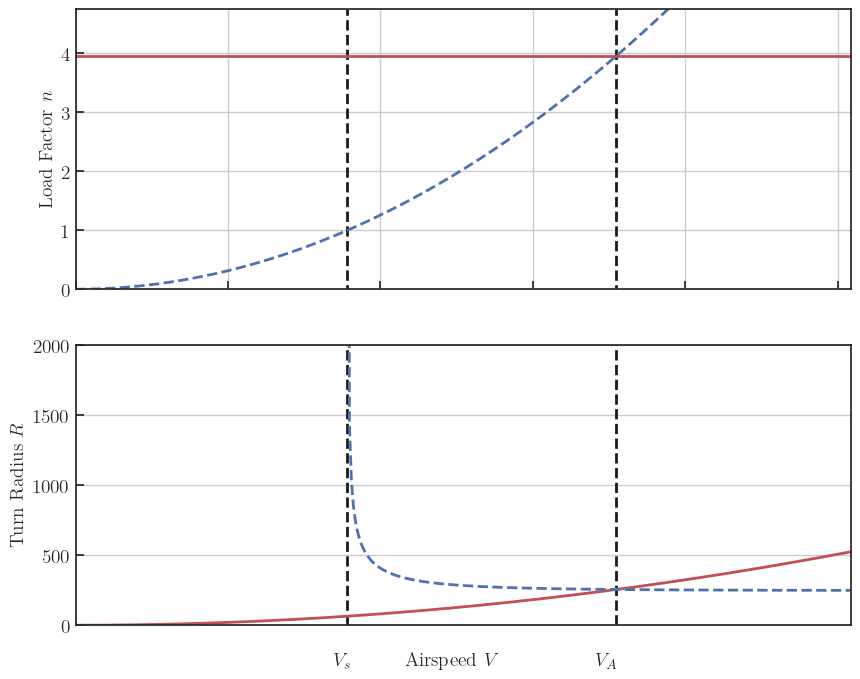
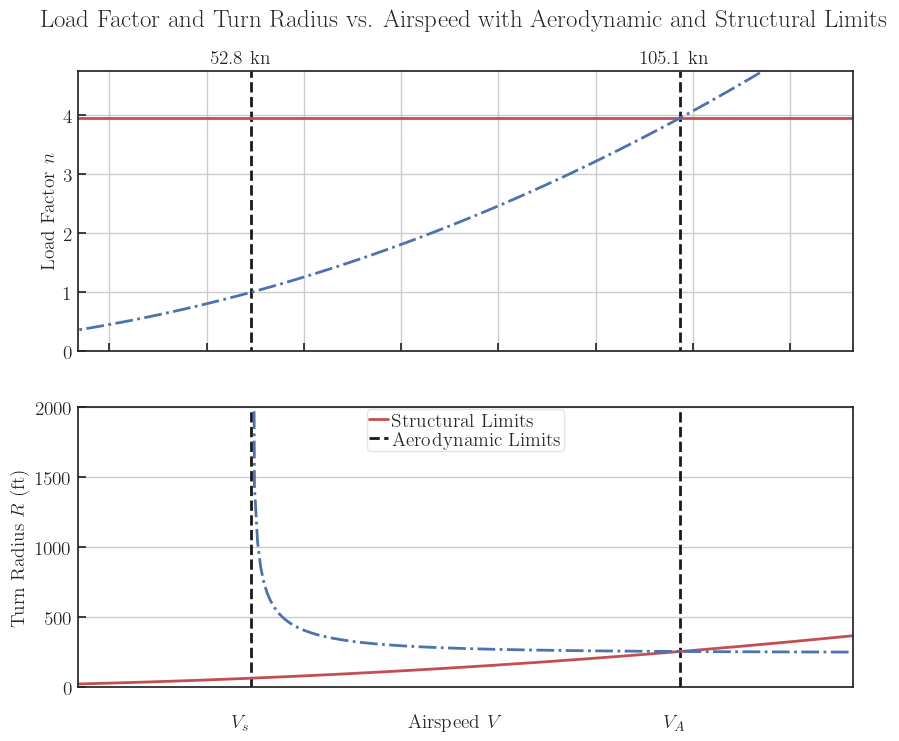
Minor improvements to V-n diagrams
TVG 04.24.2021

diff --git a/Vn_Diagram/VnD.py b/Vn_Diagram/VnD.py
@@ -96,42 +96,49 @@ Rmin_AL = ALtr(V, Vs, unit)
 g, (ax1, ax2) = plt.subplots(2, sharex=True, sharey=False, figsize=(10,8))
 
 ########## Subplot 1
+ax1.set_title("Load Factor and Turn Radius vs. Airspeed with Aerodynamic and Structural Limits", y=1.1)
 
-ax1.plot(V, n_SL, 'r-', V, n_AL, 'b--')
+ax1.plot(V, n_SL, 'r-', label="Structural Limits")
+ax1.plot(V, n_AL, 'b-.')
 
 ax1.set_ylabel(r'Load Factor $n$') 
 
-ax1.vlines(x = Vs, ymin=-0.1, ymax=n_max*1.2, colors='k', linestyles='--')
+ax1.vlines(x = Vs, ymin=-0.1, ymax=n_max*1.2, colors='k', linestyles='--',label="Aerodynamic Limits")
 
 ax1.vlines(x = VA, ymin=-0.1, ymax=n_max*1.2, colors='k', linestyles='--')
 
-ax1.set_xlim([0, Vmax*1.2]); ax1.set_ylim([0, n_max*1.2])
+ax1.set_xlim([0.6*Vs, VA*1.2]); ax1.set_ylim([0, n_max*1.2])
 
 ########## Subplot 2
 
-ax2.plot(V, Rmin_SL, 'r-', V, Rmin_AL, 'b--')
+ax2.plot(V, Rmin_SL, 'r-', label="Structural Limits")
+ax2.plot(V, Rmin_AL, 'b-.', )
 
-ax2.set_ylabel(r'Turn Radius $R$') 
+ax2.set_ylabel(r'Turn Radius $R$ (ft)') 
 
-ax2.vlines(x = Vs, ymin=-0.1, ymax=2000, colors='k', linestyles='--')
+ax2.vlines(x = Vs, ymin=-0.1, ymax=2000, colors='k', linestyles='--',label="Aerodynamic Limits")
 
 ax2.vlines(x = VA, ymin=-0.1, ymax=2000, colors='k', linestyles='--')
 
-ax2.set_xlim([0, Vmax]); ax2.set_ylim([0, 2000])
+ax2.set_xlim([0.6*Vs, VA*1.2]); ax2.set_ylim([0, 2000])
+ax2.legend(loc='upper center')
 
 ######### Notations
 
 g.text(0.5, 0.06, r'Airspeed $V$', ha='center')
 
-g.text(Vs/(1.2*Vmax)+0.1, 0.06, r'$V_s$', ha='center') # The location of the notation can be adjusted 
+g.text(Vs/(1.2*VA)+0.12-0.6*Vs/(1.2*VA), 0.89, str(round(Vs*0.592484,1))+" kn", ha='center') # The location of the notation can be adjusted
+g.text(Vs/(1.2*VA)+0.12-0.6*Vs/(1.2*VA), 0.06, r'$V_s$', ha='center') # The location of the notation can be adjusted 
 
-g.text(VA/(1.2*Vmax)+0.075, 0.06, r'$V_A$', ha='center') # The location of the notation can be adjusted 
+g.text(VA/(1.2*VA)+0.14-0.6*Vs/(1.2*VA), 0.89, str(round(VA*0.592484,1))+" kn", ha='center') # The location of the notation can be adjusted
+g.text(VA/(1.2*VA)+0.14-0.6*Vs/(1.2*VA), 0.06, r'$V_A$', ha='center') # The location of the notation can be adjusted 
 
 plt.gca().axes.get_xaxis().set_visible(False)
 
+
 plt.savefig('%s/Figure_TD.png'%(savedir))
 
-# plt.show()
+plt.show()
 
 ############################################################
 
@@ -177,13 +184,16 @@ plt.vlines(x = Vsp, ymin=-1.2*n_max, ymax=1.2*n_max, colors='k', linestyles='--'
 
 plt.vlines(x = Vsn, ymin=-1.2*n_max, ymax=1.2*n_max, colors='k', linestyles='--')
 
-plt.title('Generic V-n maneuver diagram')
+plt.title('V-n Maneuver Diagram', y=1.04)
 
+plt.text(VA, n_max+0.9, str(round(VA*0.592484,1))+" kn", ha='center') # The location of the notation can be adjusted
 plt.text(VA, -1.2*n_max-0.25, r'$V_A$', ha='center') # The location of the notation can be adjusted
 
-plt.text(Vsp, -1.2*n_max-0.25, r'$V_{s_{1}}$', ha='center') # The location of the notation can be adjusted
+plt.text(Vsp-8, n_max+0.9, str(round(Vsp*0.592484,1))+" kn", ha='center') # The location of the notation can be adjusted
+plt.text(Vsp-3, -1.2*n_max-0.25, r'$V_{s_{1}}$', ha='center') # The location of the notation can be adjusted
 
-plt.text(Vsn, -1.2*n_max-0.25, r'$V_{s_{-1}}$', ha='center') # The location of the notation can be adjusted
+plt.text(Vsn+10, n_max+0.9, str(round(Vsn*0.592484,1))+" kn", ha='center') # The location of the notation can be adjusted
+plt.text(Vsn+5, -1.2*n_max-0.25, r'$V_{s_{-1}}$', ha='center') # The location of the notation can be adjusted
 
 plt.text(Vmax*0.95, -1.2*n_max-0.25, r'Equivalent Airspeed $V_e$', ha='center') # The location of the notation can be adjusted
 
@@ -243,15 +253,18 @@ plt.vlines(x = VC, ymin=-n_max+1, ymax=n_max+1, colors='k', linestyles='--')
 
 plt.vlines(x = VD, ymin=-n_max+1, ymax=n_max+1, colors='k', linestyles='--')
 
+plt.text(VB-8, n_max+1.1, str(round(VB*0.592484,1))+" kn", ha='center') # The location of the notation can be adjusted
 plt.text(VB, -n_max+0.75, r'$V_B$', ha='center') # The location of the notation can be adjusted
 
+plt.text(VC+8, n_max+1.1, str(round(VC*0.592484,1))+" kn", ha='center') # The location of the notation can be adjusted
 plt.text(VC, -n_max+0.75, r'$V_C$', ha='center') # The location of the notation can be adjusted
 
+plt.text(VD, n_max+1.1, str(round(VD*0.592484,1))+" kn", ha='center') # The location of the notation can be adjusted
 plt.text(VD, -n_max+0.75, r'$V_D$', ha='center') # The location of the notation can be adjusted
 
 plt.text(Vmax*0.95*1.2, -n_max+0.25, r'Equivalent Airspeed $V_e$', ha='center') # The location of the notation can be adjusted
 
-plt.title('Generic V-n Gust Diagram')
+plt.title('V-n Gust Diagram', y=1.04)
 
 plt.ylabel(r'Load Factor $n$') 
 
@@ -259,7 +272,7 @@ plt.gca().axes.get_xaxis().set_visible(False)
 
 plt.savefig('%s/Figure_GD.png'%(savedir))
 
-plt.show()
+# plt.show()
 
 ##########################################################
 
@@ -283,11 +296,14 @@ plt.vlines(x = Vsn, ymin=-n_max+1, ymax=n_max+1, colors='k', linestyles='--')
 
 plt.title('Generic V-n maneuver diagram')
 
+plt.text(VA-12, n_max+1.1, str(round(VA*0.592484,1))+" kn", ha='center') # The location of the notation can be adjusted
 plt.text(VA, -n_max+0.75, r'$V_A$', ha='center') # The location of the notation can be adjusted
 
-plt.text(Vsp, -n_max+0.75, r'$V_{s_{1}}$', ha='center') # The location of the notation can be adjusted
+plt.text(Vsp-10, n_max+1.1, str(round(Vsp*0.592484,1))+" kn", ha='center') # The location of the notation can be adjusted
+plt.text(Vsp-3, -n_max+0.75, r'$V_{s_{1}}$', ha='center') # The location of the notation can be adjusted
 
-plt.text(Vsn, -n_max+0.75, r'$V_{s_{-1}}$', ha='center') # The location of the notation can be adjusted
+plt.text(Vsn+12, n_max+1.1, str(round(Vsn*0.592484,1))+" kn", ha='center') # The location of the notation can be adjusted
+plt.text(Vsn+5, -n_max+0.75, r'$V_{s_{-1}}$', ha='center') # The location of the notation can be adjusted
 
 #### From PART C
 
@@ -301,17 +317,20 @@ plt.vlines(x = VC, ymin=-n_max+1, ymax=n_max+1, colors='k', linestyles='--')
 
 plt.vlines(x = VD, ymin=-n_max+1, ymax=n_max+1, colors='k', linestyles='--')
 
+plt.text(VB, n_max+1.3, str(round(VB*0.592484,1))+" kn", ha='center') # The location of the notation can be adjusted
 plt.text(VB, -n_max+0.75, r'$V_B$', ha='center') # The location of the notation can be adjusted
 
+plt.text(VC+8, n_max+1.1, str(round(VC*0.592484,1))+" kn", ha='center') # The location of the notation can be adjusted
 plt.text(VC, -n_max+0.75, r'$V_C$', ha='center') # The location of the notation can be adjusted
 
+plt.text(VD, n_max+1.1, str(round(VD*0.592484,1))+" kn", ha='center') # The location of the notation can be adjusted
 plt.text(VD, -n_max+0.75, r'$V_D$', ha='center') # The location of the notation can be adjusted
 
 plt.axis([0, Vmax*1.2, -n_max+1, n_max+1])
 
-plt.title('Composite V-n gust diagram')
+plt.title('Composite V-n gust diagram',y=1.05)
 
-plt.text(Vmax*0.95*1.2, -n_max+0.75, r'Equivalent Airspeed $V_e$', ha='center') # The location of the notation can be adjusted
+plt.text(Vmax*0.95*1.3, -n_max+0.75, r'Equivalent Airspeed $V_e$', ha='center') # The location of the notation can be adjusted
 
 plt.ylabel(r'Load Factor $n$') 
 
